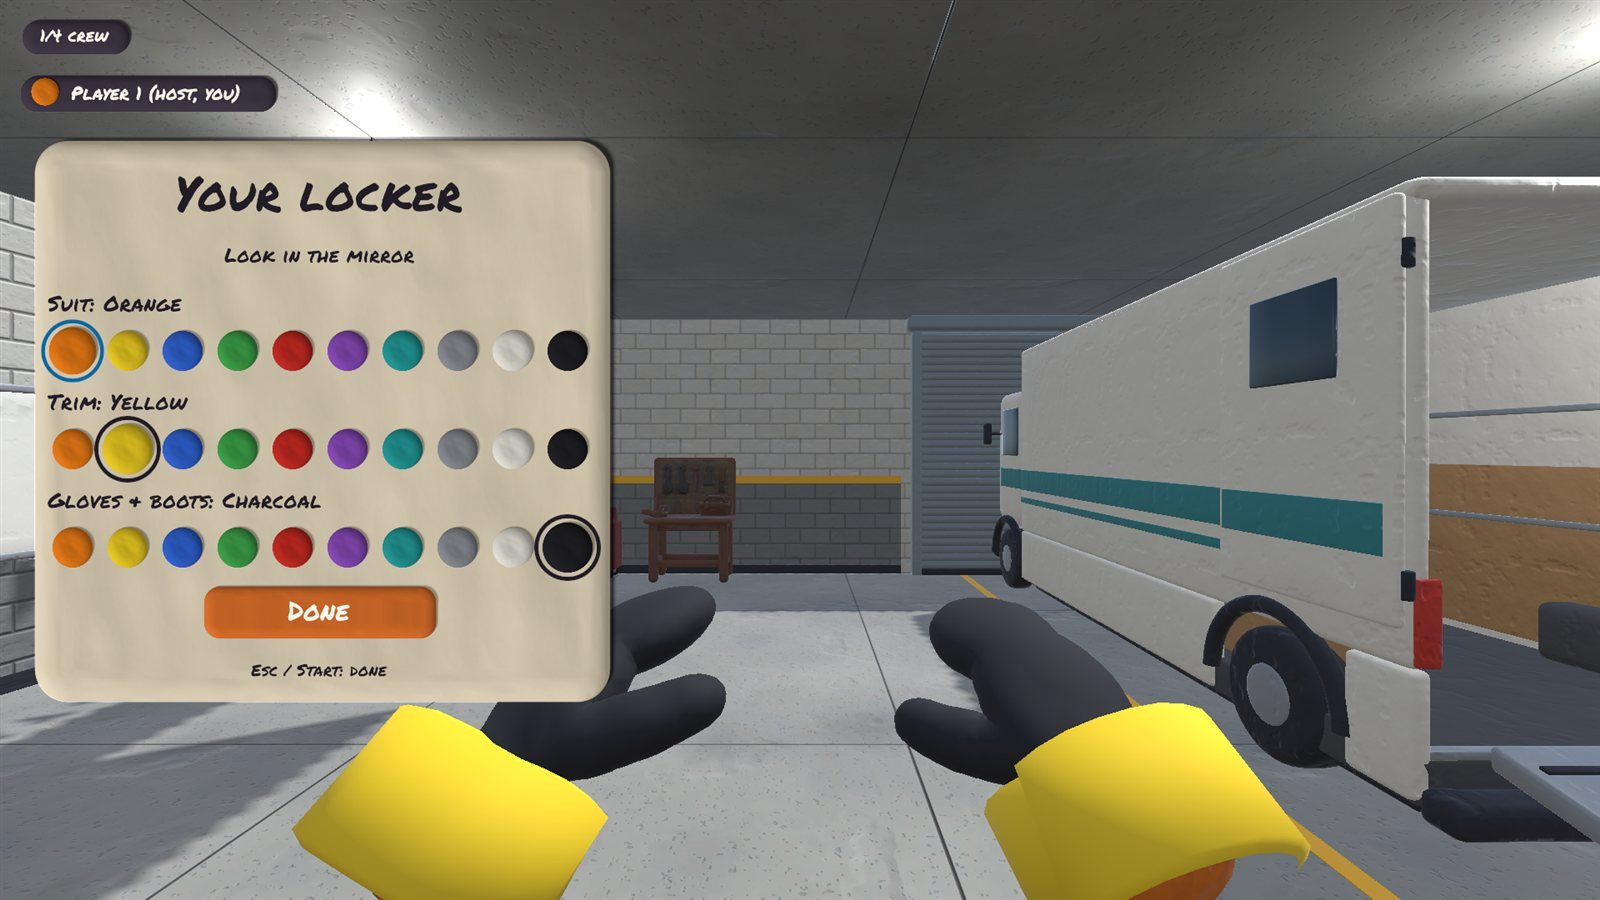
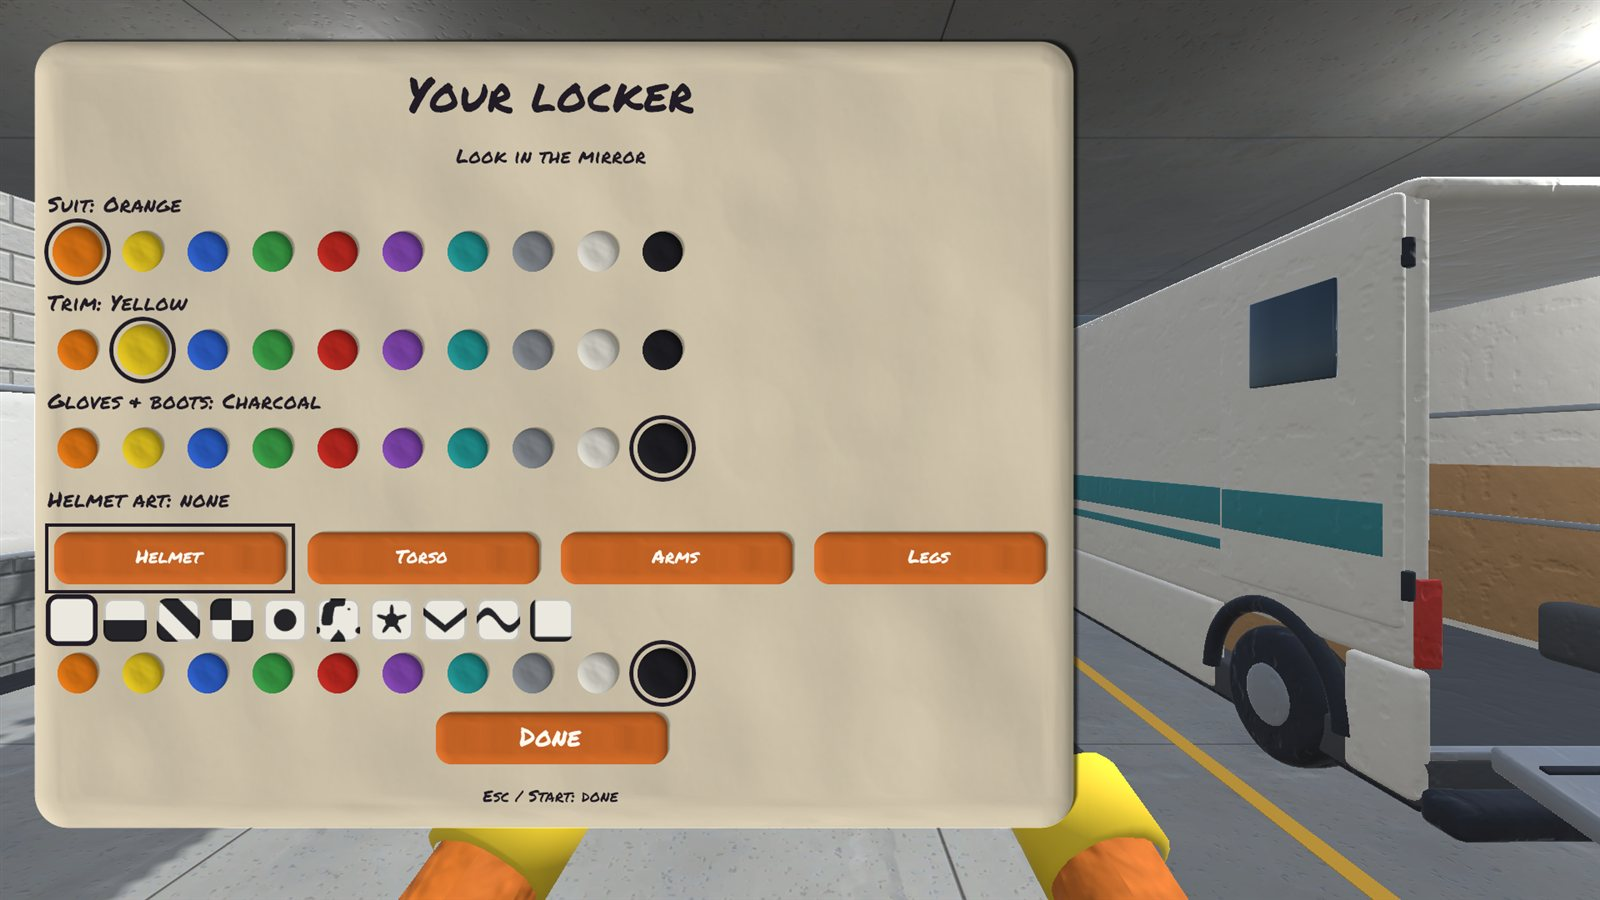
README: retake the locker, shop, owner and job-complete screenshots with the new HUD

diff --git a/README.md b/README.md
@@ -13,7 +13,7 @@ This repository only holds playable builds. Download the latest zip from the [Re
 *The HQ: van, contract board, toys and lockers*
 
 ![Lockers: pick your suit colours](screenshots/03-locker.jpg)
-*Lockers: pick your suit colours*
+*Lockers: pick your suit colours and suit art*
 
 ![The crew shop](screenshots/04-crew-shop.jpg)
 *The crew shop*
